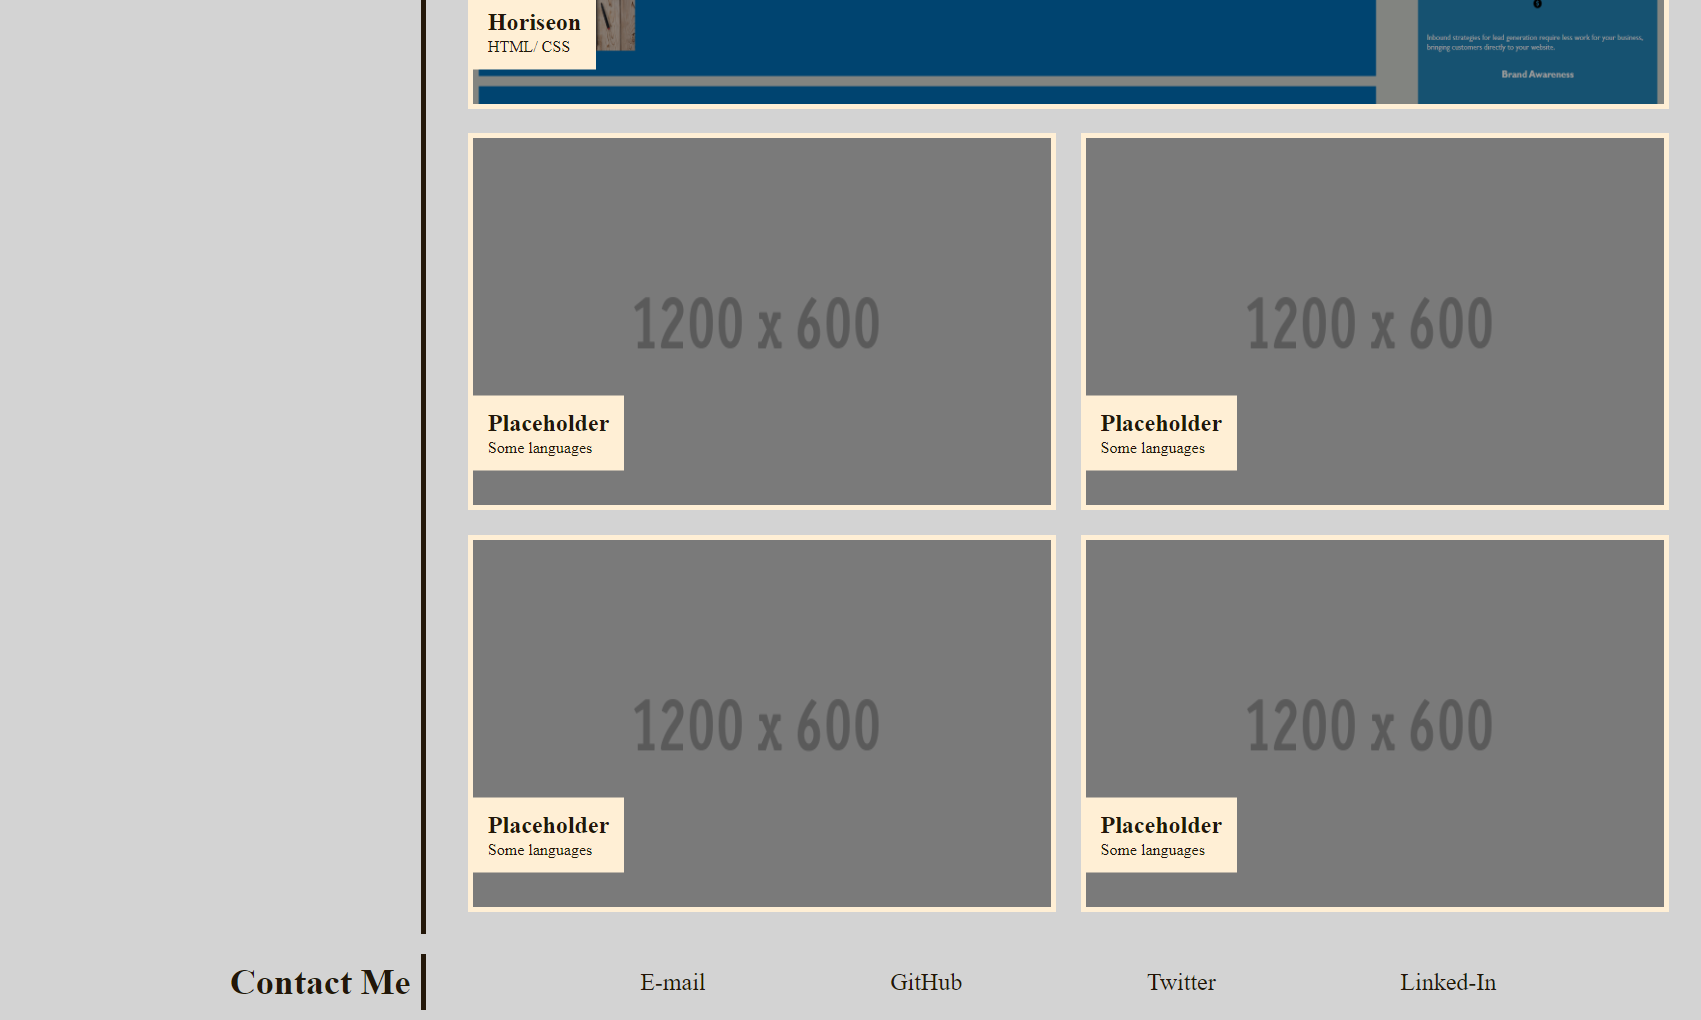
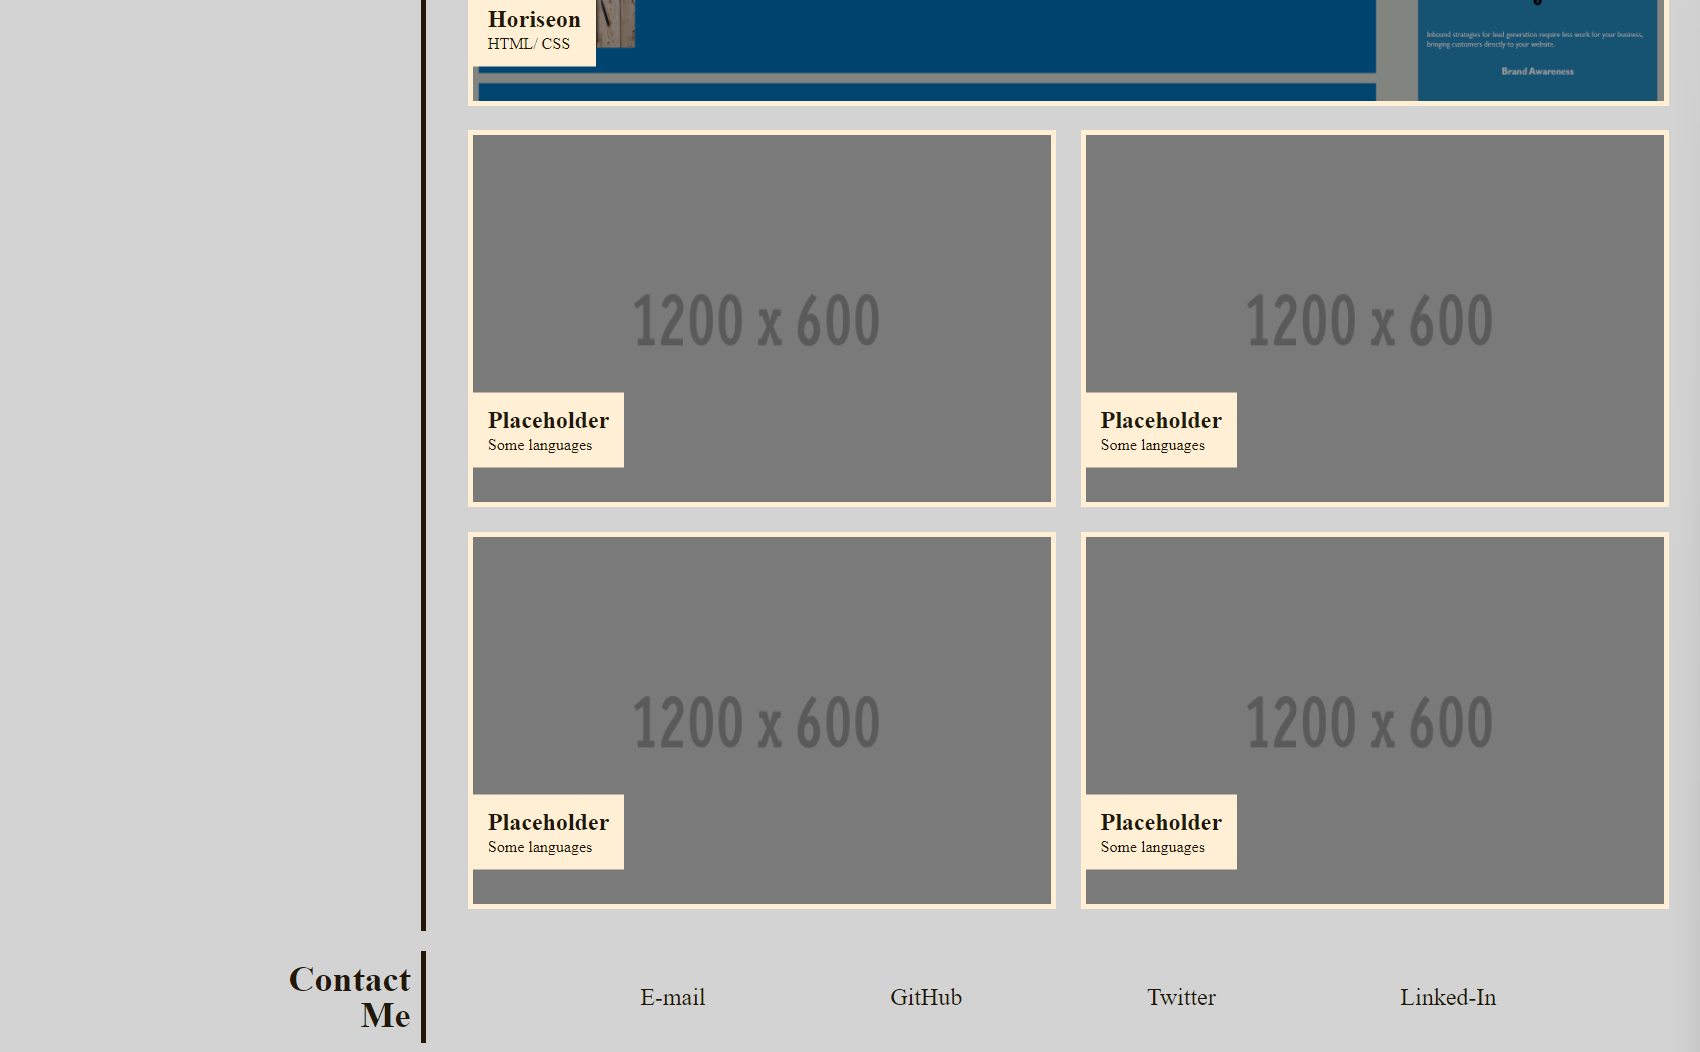
improved the look of the site on a smartphone

diff --git a/assets/css/style.css b/assets/css/style.css
@@ -246,7 +246,9 @@ main {
 
     /* Align each header to the right side. */
     display: flex;
-    justify-content: flex-end;
+    /* I want to display each work on top of each other */
+    flex-direction: column;
+    align-items: flex-end;
 }
 
 /* 
@@ -457,6 +459,18 @@ address a {
         font-size: 26px;
     }
 
+    /* 
+     *  On a smartphone resolution, the title overlaps the nav bar, so I'll place the nav bar and the title so they offset
+     *  from the center.
+     */
+    #header-title {
+        align-items: flex-start;
+    }
+
+    header nav {
+        align-items: flex-end;
+    }
+
     /* As the resolution gets low, there's a space in between the hero image and the header. */
     .hero img {
         height: 100%;
@@ -472,7 +486,7 @@ address a {
     }
 
     .section-header h2 {
-        font-size: 16px;
+        font-size: 14px;
     }
 
     #about-me img {
@@ -480,11 +494,11 @@ address a {
     }
 
     #about-me-text h3 {
-        font-size: 16px;
+        font-size: 14px;
     }
 
     #about-me-text p {
-        font-size: 14px;
+        font-size: 12px;
     }
 
     .project {
@@ -496,6 +510,6 @@ address a {
     }
 
     address ul li {
-        font-size: 16px;
+        font-size: 14px;
     }
 }

diff --git a/index.html b/index.html
@@ -48,8 +48,13 @@
         -->
         <main>
             <section id="about-me" class="main-section">
+                <!-- 
+                    I'm splitting up the header text so that they will display vertically.
+                    I'm doing it this way so that the page will display better at smaller resolutions.
+                 -->
                 <aside id="about-me-header" class="section-header">
-                    <h2>About Me</h2>
+                    <h2>About</h2>
+                    <h2>Me</h2>
                 </aside>
                 <section id="about-me-content" class="section-content">
                     <figure>
@@ -119,7 +124,8 @@
 
         <footer id="contact-me" class="main-section">
             <aside id="contact-me-header" class="section-header">
-                <h2>Contact Me</h2>
+                <h2>Contact</h2>
+                <h2>Me</h2>
             </aside>
             <address id="contact-me-content" class="section-content">
                 <ul>
